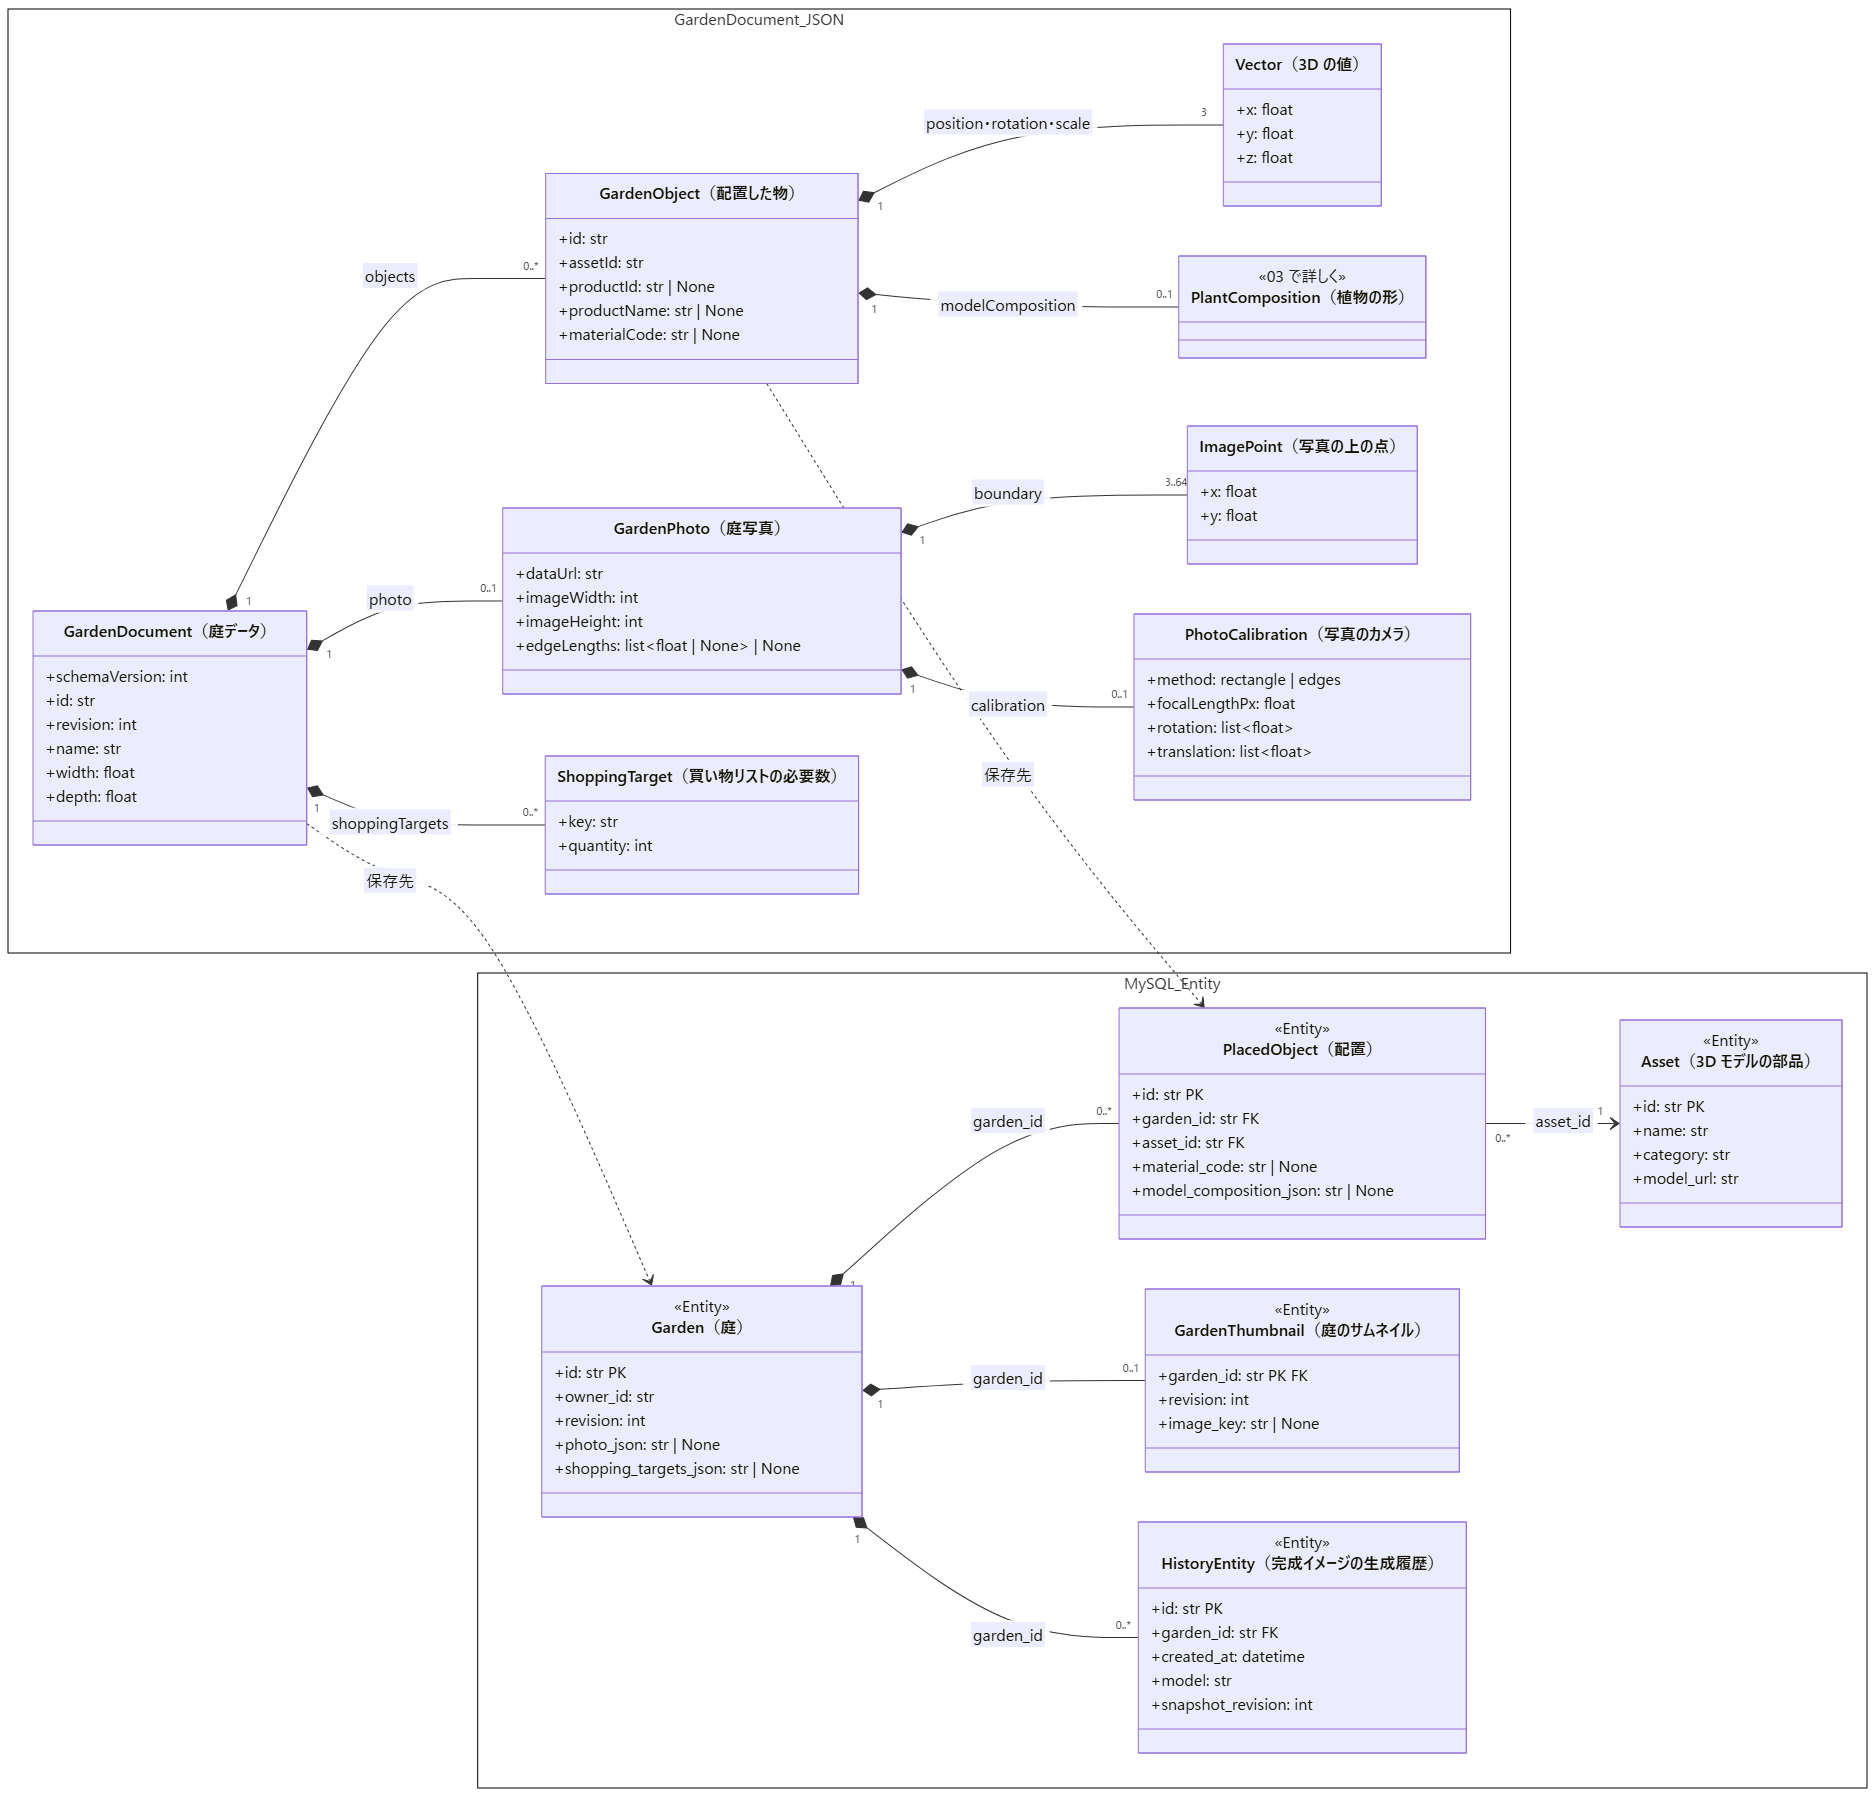
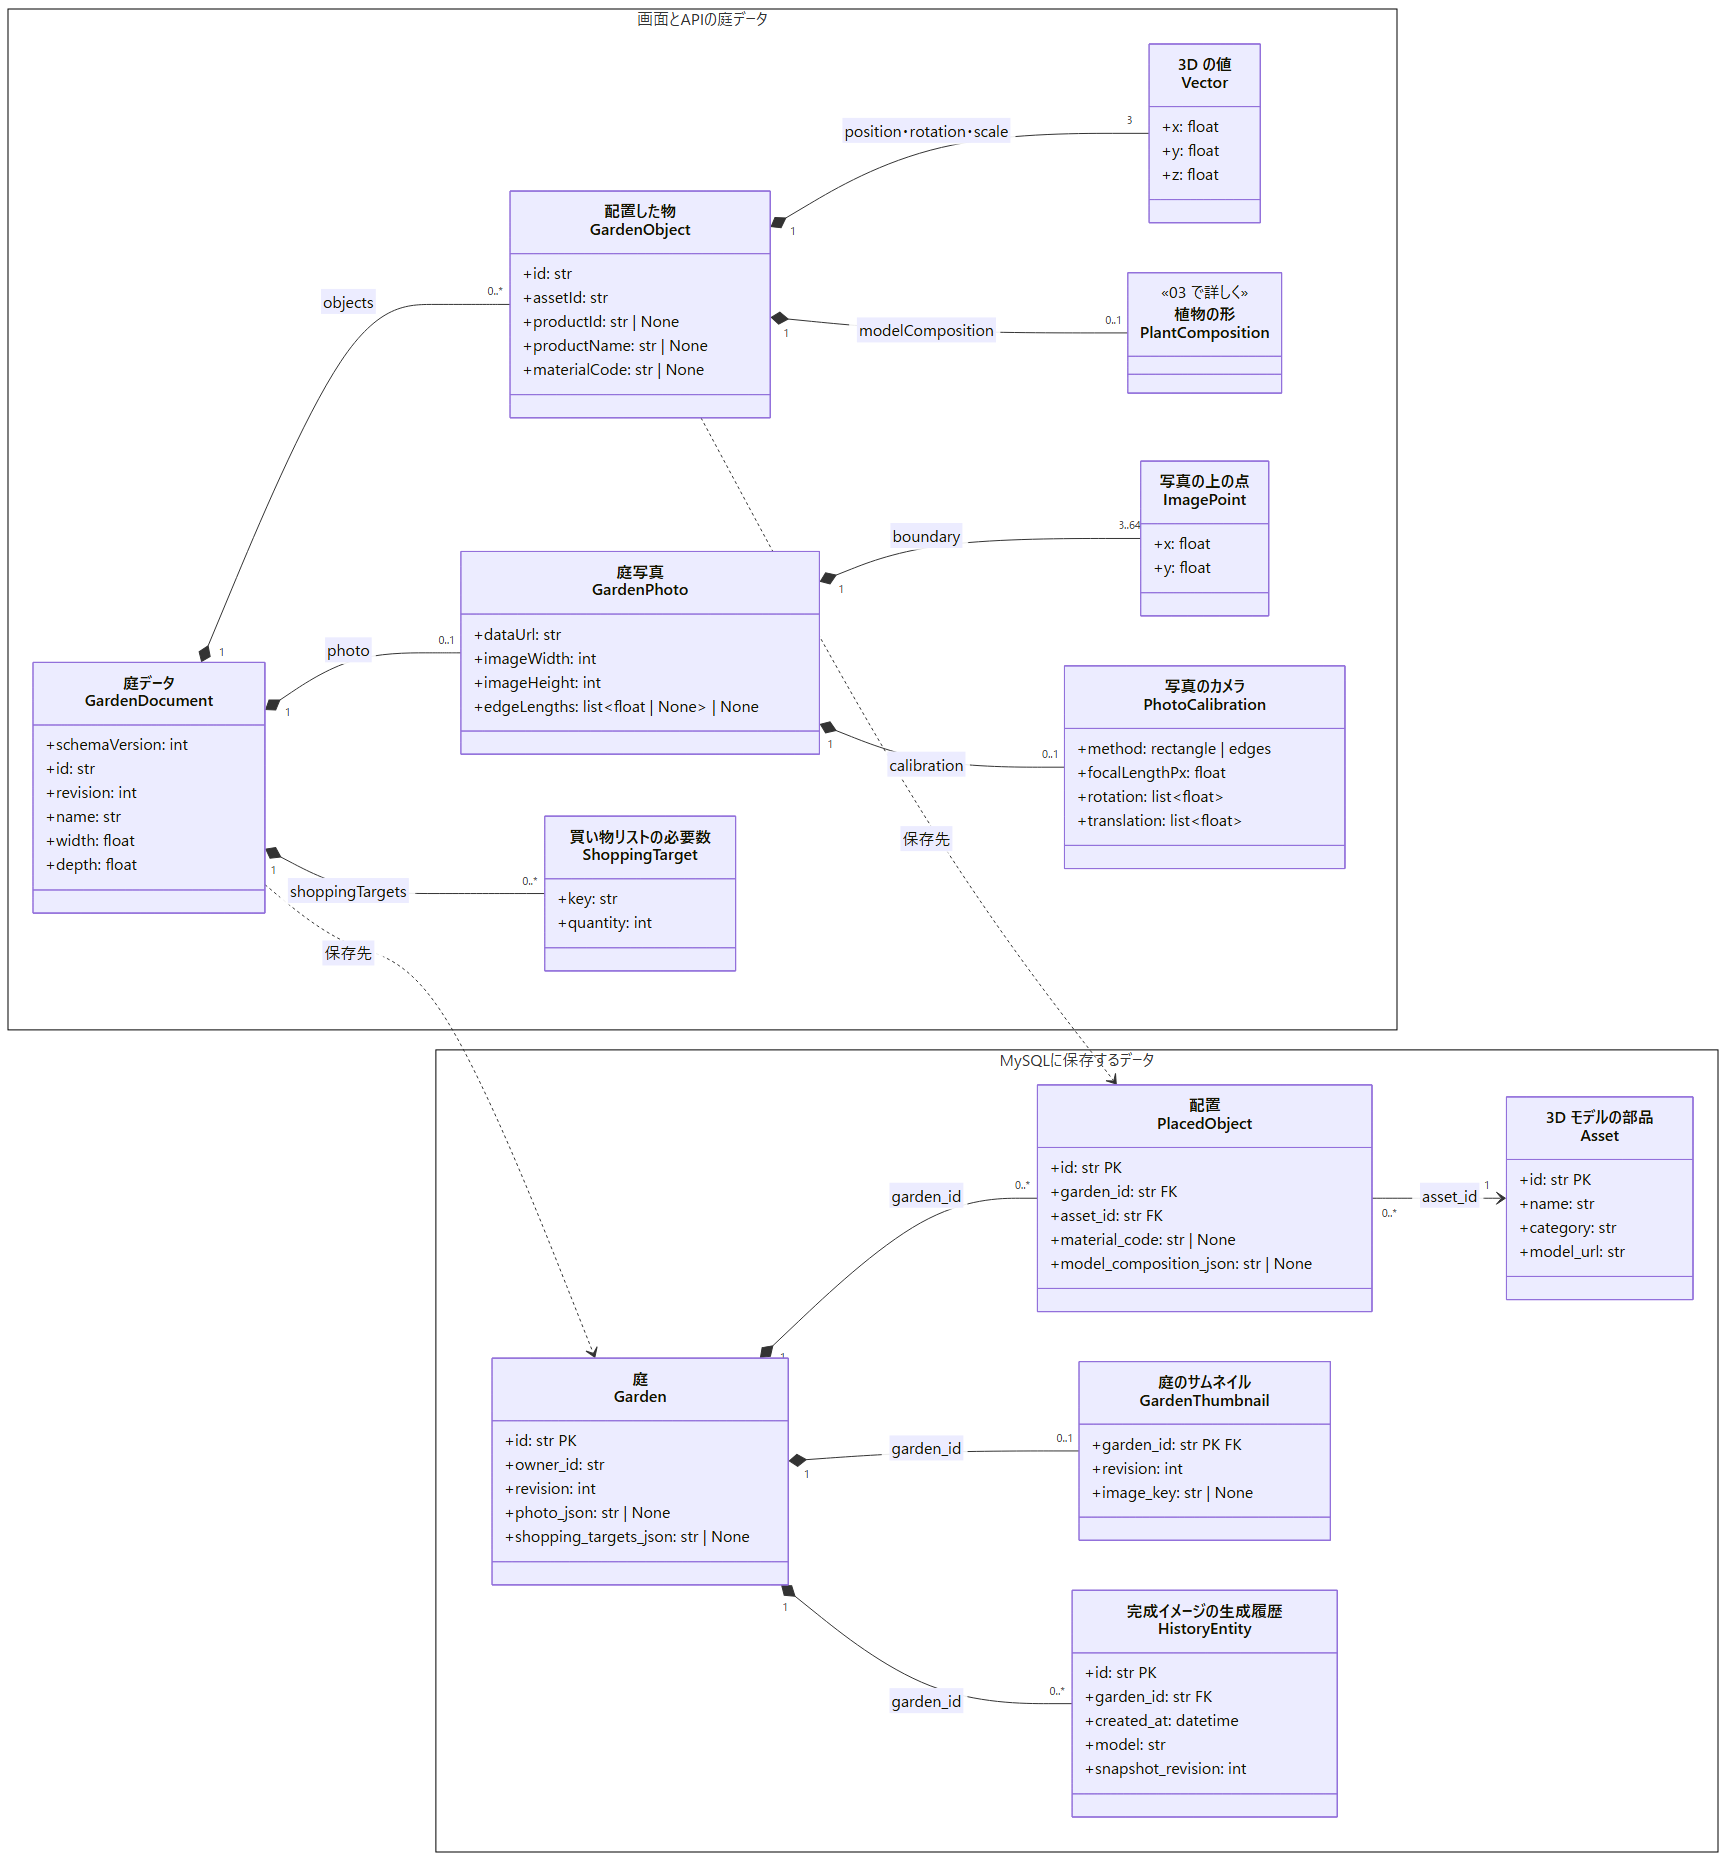
クラス図の箱を日本語名と英語名の 2 行にし、囲みに日本語の名前を付ける

diff --git a/クラス図/クラス図.md b/クラス図/クラス図.md
@@ -7,7 +7,7 @@ Kusakari Canvas と Kusakari EC が扱うデータの構造を、システムご
 
 ## 図の読み方
 
-- 箱の名前は「英語名（日本語名）」です。英語名はコードのクラス名です。
+- 箱の名前は、上の行が日本語名（論理名）、下の行が英語名（コードのクラス名）です。
 - `*--`（黒い菱形）は、親が消えると一緒に消える持ち方です（JSON の入れ子、`ON DELETE CASCADE` の外部キー）。`-->` は関連（外部キー）、`..>` は保存先です。
 - 線の両端の数字は多重度です。`1` は 1 つ、`0..1` は無いか 1 つ、`0..*` は 0 個以上です。
 - 線のラベルは、関連を持つフィールド名か外部キーの列名です。関連の線で描いたフィールドは、箱の中に重ねて書いていません。
@@ -20,8 +20,8 @@ Kusakari Canvas と Kusakari EC が扱うデータの構造を、システムご
 classDiagram
     direction LR
 
-    namespace GardenDocument_JSON {
-        class GardenDocument["GardenDocument（庭データ）"] {
+    namespace 画面とAPIの庭データ {
+        class GardenDocument["庭データ<br>GardenDocument"] {
             +schemaVersion: int
             +id: str
             +revision: int
@@ -29,75 +29,70 @@ classDiagram
             +width: float
             +depth: float
         }
-        class GardenObject["GardenObject（配置した物）"] {
+        class GardenObject["配置した物<br>GardenObject"] {
             +id: str
             +assetId: str
             +productId: str | None
             +productName: str | None
             +materialCode: str | None
         }
-        class Vector["Vector（3D の値）"] {
+        class Vector["3D の値<br>Vector"] {
             +x: float
             +y: float
             +z: float
         }
-        class PlantComposition["PlantComposition（植物の形）"] {
+        class PlantComposition["植物の形<br>PlantComposition"] {
             <<03 で詳しく>>
         }
-        class GardenPhoto["GardenPhoto（庭写真）"] {
+        class GardenPhoto["庭写真<br>GardenPhoto"] {
             +dataUrl: str
             +imageWidth: int
             +imageHeight: int
             +edgeLengths: list~float | None~ | None
         }
-        class ImagePoint["ImagePoint（写真の上の点）"] {
+        class ImagePoint["写真の上の点<br>ImagePoint"] {
             +x: float
             +y: float
         }
-        class PhotoCalibration["PhotoCalibration（写真のカメラ）"] {
+        class PhotoCalibration["写真のカメラ<br>PhotoCalibration"] {
             +method: rectangle | edges
             +focalLengthPx: float
             +rotation: list~float~
             +translation: list~float~
         }
-        class ShoppingTarget["ShoppingTarget（買い物リストの必要数）"] {
+        class ShoppingTarget["買い物リストの必要数<br>ShoppingTarget"] {
             +key: str
             +quantity: int
         }
     }
 
-    namespace MySQL_Entity {
-        class Garden["Garden（庭）"] {
-            <<Entity>>
+    namespace MySQLに保存するデータ {
+        class Garden["庭<br>Garden"] {
             +id: str PK
             +owner_id: str
             +revision: int
             +photo_json: str | None
             +shopping_targets_json: str | None
         }
-        class PlacedObject["PlacedObject（配置）"] {
-            <<Entity>>
+        class PlacedObject["配置<br>PlacedObject"] {
             +id: str PK
             +garden_id: str FK
             +asset_id: str FK
             +material_code: str | None
             +model_composition_json: str | None
         }
-        class Asset["Asset（3D モデルの部品）"] {
-            <<Entity>>
+        class Asset["3D モデルの部品<br>Asset"] {
             +id: str PK
             +name: str
             +category: str
             +model_url: str
         }
-        class GardenThumbnail["GardenThumbnail（庭のサムネイル）"] {
-            <<Entity>>
+        class GardenThumbnail["庭のサムネイル<br>GardenThumbnail"] {
             +garden_id: str PK FK
             +revision: int
             +image_key: str | None
         }
-        class HistoryEntity["HistoryEntity（完成イメージの生成履歴）"] {
-            <<Entity>>
+        class HistoryEntity["完成イメージの生成履歴<br>HistoryEntity"] {
             +id: str PK
             +garden_id: str FK
             +created_at: datetime
@@ -136,103 +131,89 @@ classDiagram
 classDiagram
     direction LR
 
-    namespace Member_Organization {
-        class AuthMember["AuthMember（会員）"] {
-            <<Entity>>
+    namespace 会員と組織 {
+        class AuthMember["会員<br>AuthMember"] {
             +id: String PK
             +email: String
             +displayName: String
             +accountType: String
             +withdrawnAt: Instant
         }
-        class OrganizationEntity["OrganizationEntity（組織）"] {
-            <<Entity>>
+        class OrganizationEntity["組織<br>OrganizationEntity"] {
             +id: Long PK
             +name: String
             +ownerMemberId: String FK
             +suspended: boolean
         }
-        class OrganizationMemberEntity["OrganizationMemberEntity（組織への所属）"] {
-            <<Entity>>
+        class OrganizationMemberEntity["組織への所属<br>OrganizationMemberEntity"] {
             +organizationId: Long PK FK
             +memberId: String PK FK
             +role: String
             +expelled: boolean
         }
-        class StoreEntity["StoreEntity（店舗）"] {
-            <<Entity>>
+        class StoreEntity["店舗<br>StoreEntity"] {
             +id: Long PK
             +organizationId: Long FK
             +name: String
             +published: boolean
             +closedAt: Instant
         }
-        class StoreMemberEntity["StoreMemberEntity（店舗の担当）"] {
-            <<Entity>>
+        class StoreMemberEntity["店舗の担当<br>StoreMemberEntity"] {
             +storeId: Long PK FK
             +memberId: String PK FK
             +role: String
         }
     }
 
-    namespace Catalog {
-        class ProductEntity["ProductEntity（商品）"] {
-            <<Entity>>
+    namespace 商品 {
+        class ProductEntity["商品<br>ProductEntity"] {
             +id: String PK
             +storeId: Long FK
             +category: String FK
             +name: String
             +priceYen: int
         }
-        class InventoryEntity["InventoryEntity（在庫と公開状態）"] {
-            <<Entity>>
+        class InventoryEntity["在庫と公開状態<br>InventoryEntity"] {
             +productId: String PK FK
             +quantity: int
             +publicationStatus: String
         }
-        class CategoryEntity["CategoryEntity（カテゴリ）"] {
-            <<Entity>>
+        class CategoryEntity["カテゴリ<br>CategoryEntity"] {
             +name: String PK
             +deletedAt: Instant
         }
-        class MaterialProductEntity["MaterialProductEntity（素材コードと商品の対応）"] {
-            <<Entity>>
+        class MaterialProductEntity["素材コードと商品の対応<br>MaterialProductEntity"] {
             +materialCode: String PK
             +productId: String PK FK
         }
     }
 
-    namespace Commerce {
-        class CartEntity["CartEntity（カート）"] {
-            <<Entity>>
+    namespace カートと注文 {
+        class CartEntity["カート<br>CartEntity"] {
             +id: String PK
             +memberId: String FK
             +revision: long
         }
-        class CartItemEntity["CartItemEntity（カートの明細）"] {
-            <<Entity>>
+        class CartItemEntity["カートの明細<br>CartItemEntity"] {
             +cartId: String PK FK
             +productId: String PK FK
             +quantity: int
         }
-        class PaymentEntity["PaymentEntity（決済）"] {
-            <<Entity>>
+        class PaymentEntity["決済<br>PaymentEntity"] {
             +id: String PK
             +cartId: String FK
             +requestId: String
             +status: String
             +amountYen: int
         }
-        class OrderEntity["OrderEntity（注文）"] {
-            <<Entity>>
+        class OrderEntity["注文<br>OrderEntity"] {
             +id: String PK
             +cartId: String FK
             +paymentId: String FK
             +storeId: Long FK
             +status: String
         }
-        class OrderItemEntity["OrderItemEntity（注文の明細）"] {
-            <<Entity>>
+        class OrderItemEntity["注文の明細<br>OrderItemEntity"] {
             +orderId: String PK FK
             +productId: String PK
             +quantity: int
@@ -240,9 +221,8 @@ classDiagram
         }
     }
 
-    namespace Notification {
-        class NotificationEntity["NotificationEntity（通知）"] {
-            <<Entity>>
+    namespace 通知 {
+        class NotificationEntity["通知<br>NotificationEntity"] {
             +id: String PK
             +memberId: String FK
             +storeId: Long FK
